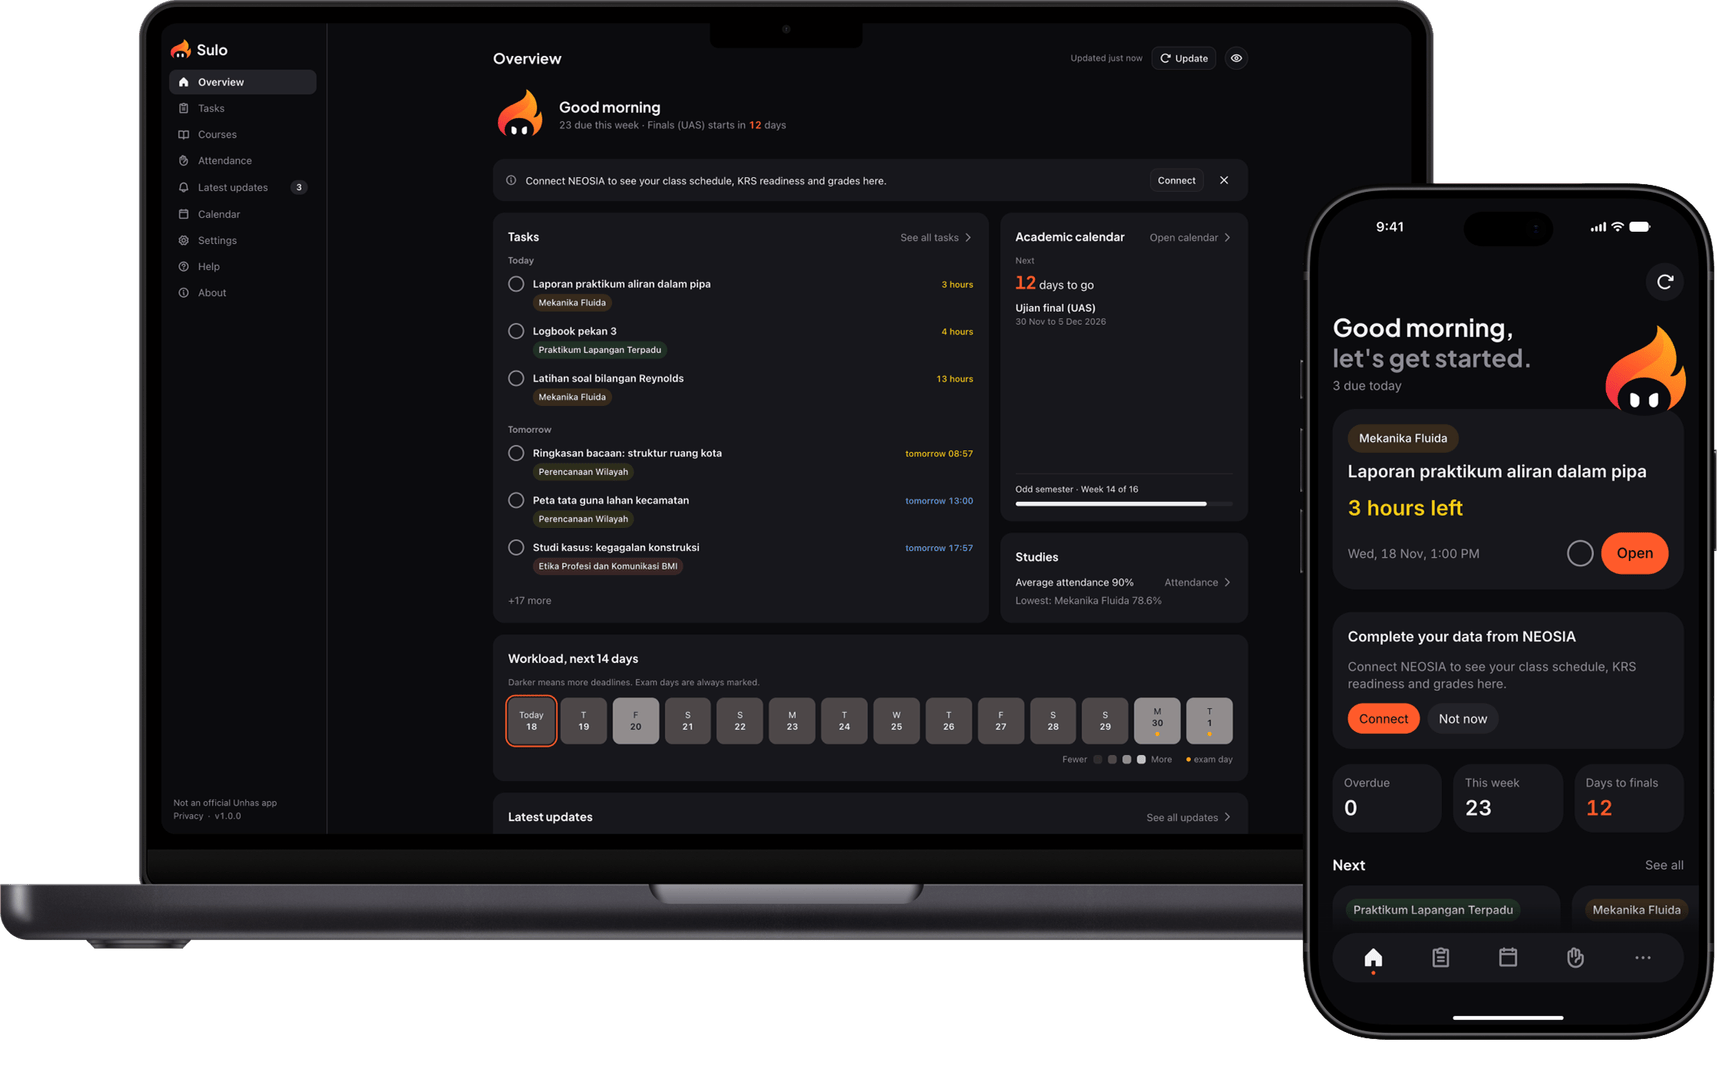
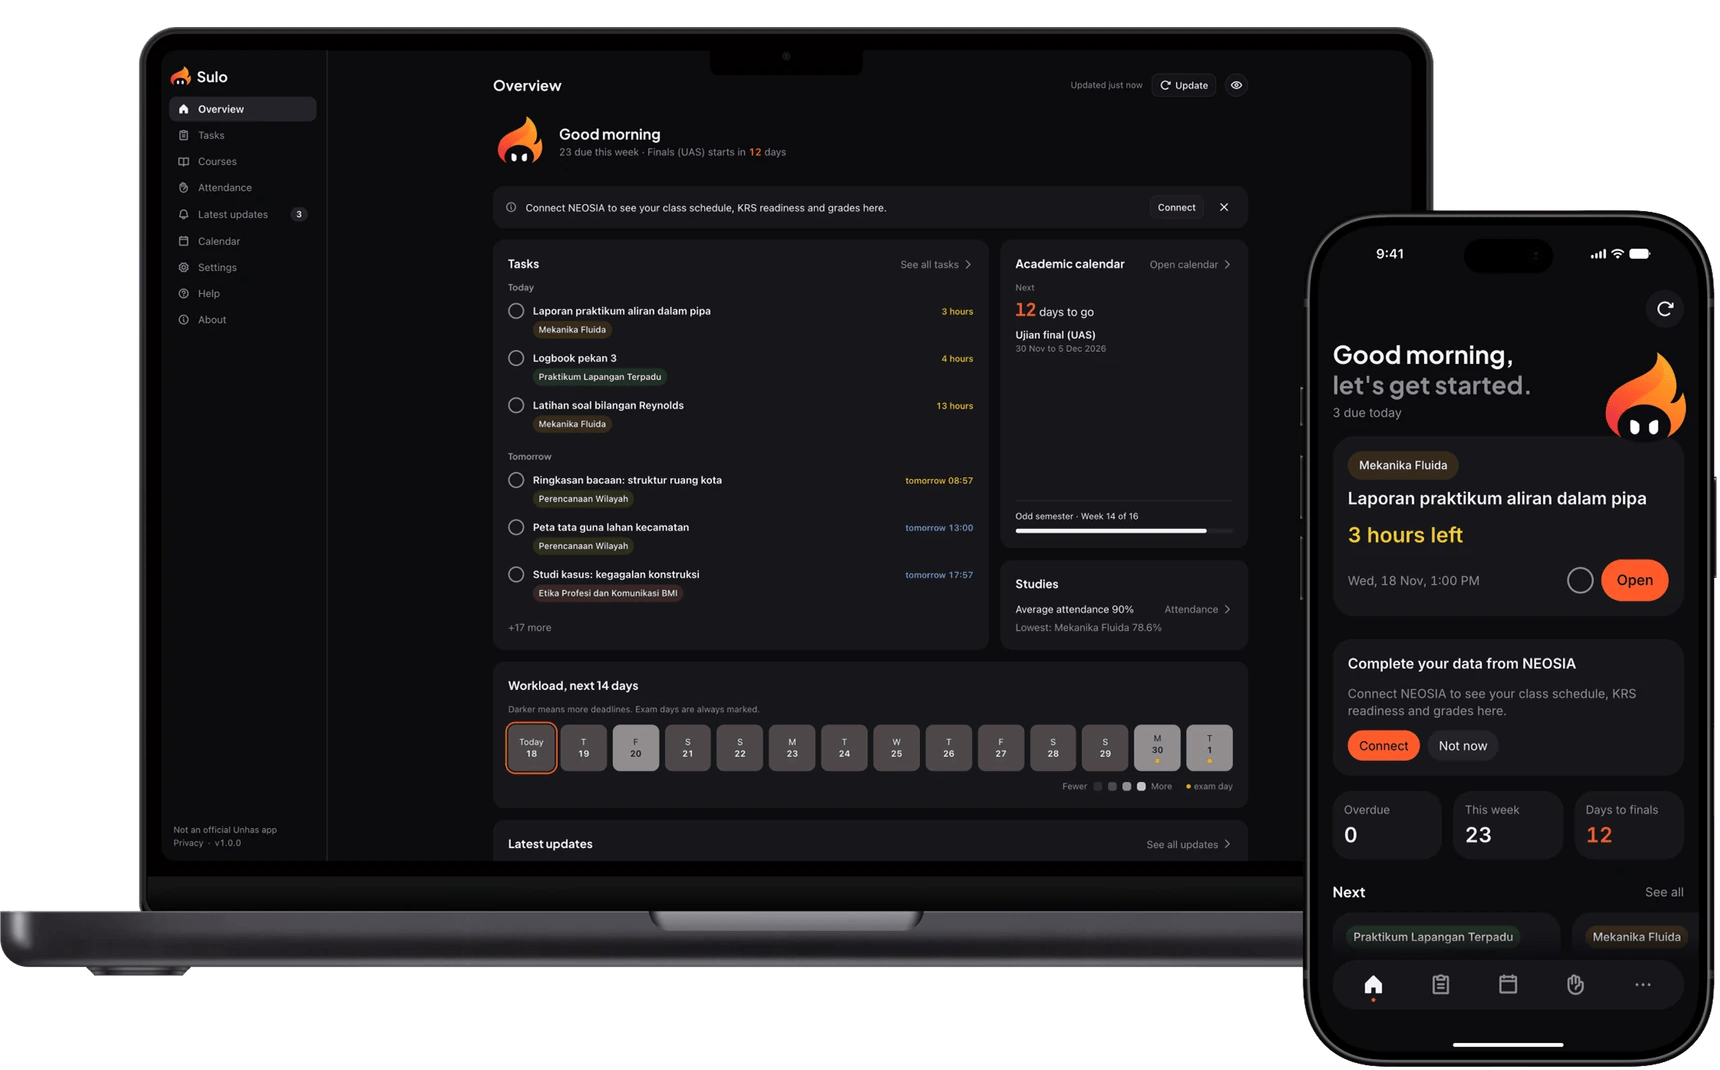
docs: README hero at 88% of the column, with room around it
The hero is now 88% of the README column (the width attribute, so it still
shrinks on a phone), centred, with the caption in the same paragraph so it
reads as one block with the picture.

GitHub drops CSS margins, so the room above is inside the image: the four
images are trimmed to their drawn height (1043 px) and given the same
27 px of transparent space on top, which puts the devices 32 px below the
paragraph above on a desktop. They stay 1720 px wide, so nothing moves
sideways, and all four are the same size (1720 x 1070), WebP and PNG.

The caption is shorter and keeps the point that the phone frame is only an
illustration and the phone app is for Android.

diff --git a/README.id.md b/README.id.md
@@ -22,11 +22,11 @@ Sulo mengumpulkan tugas, tenggat, dan presensi dari SIKOLA serta kalender akadem
     <source type="image/webp" media="(prefers-color-scheme: dark)" srcset="docs-publik/hero-dark.id.webp">
     <source type="image/webp" media="(prefers-color-scheme: light)" srcset="docs-publik/hero-light.id.webp">
     <source media="(prefers-color-scheme: dark)" srcset="docs-publik/hero-dark.id.png">
-    <img alt="Dashboard Sulo di laptop dengan tugas hari ini, kalender akademik, dan beban 14 hari ke depan, di samping aplikasi HP Sulo yang menampilkan tenggat terdekat, 3 jam lagi. Data contoh." src="docs-publik/hero-light.id.png" width="860">
+    <img alt="Dashboard Sulo di laptop dengan tugas hari ini, kalender akademik, dan beban 14 hari ke depan, di samping aplikasi HP Sulo yang menampilkan tenggat terdekat, 3 jam lagi. Data contoh." src="docs-publik/hero-light.id.png" width="88%">
   </picture>
+  <br>
+  <sub>Dashboard ekstensi dan aplikasi Android, dengan data contoh. Bingkai ponsel hanya ilustrasi: aplikasi HP Sulo untuk Android.</sub>
 </p>
-
-<p align="center"><sub>Dashboard ekstensi dan aplikasi Android, dengan data contoh. Bingkai ponsel hanya untuk gambar: aplikasi HP Sulo untuk Android.</sub></p>
 
 ## Daftar isi
 

diff --git a/README.md b/README.md
@@ -22,11 +22,11 @@ Sulo puts your SIKOLA tasks, deadlines and attendance and the Unhas academic cal
     <source type="image/webp" media="(prefers-color-scheme: dark)" srcset="docs-publik/hero-dark.webp">
     <source type="image/webp" media="(prefers-color-scheme: light)" srcset="docs-publik/hero-light.webp">
     <source media="(prefers-color-scheme: dark)" srcset="docs-publik/hero-dark.png">
-    <img alt="Sulo's dashboard on a laptop, showing today's tasks, the academic calendar and a 14-day workload strip, next to Sulo's phone app showing the nearest deadline, 3 hours left. Sample data." src="docs-publik/hero-light.png" width="860">
+    <img alt="Sulo's dashboard on a laptop, showing today's tasks, the academic calendar and a 14-day workload strip, next to Sulo's phone app showing the nearest deadline, 3 hours left. Sample data." src="docs-publik/hero-light.png" width="88%">
   </picture>
+  <br>
+  <sub>Extension dashboard and Android app, with sample data. Phone frame is illustrative: the mobile app is Android only.</sub>
 </p>
-
-<p align="center"><sub>The extension's dashboard and the Android app, with sample data. The phone frame is only for the picture: Sulo's phone app is for Android.</sub></p>
 
 ## Contents
 
